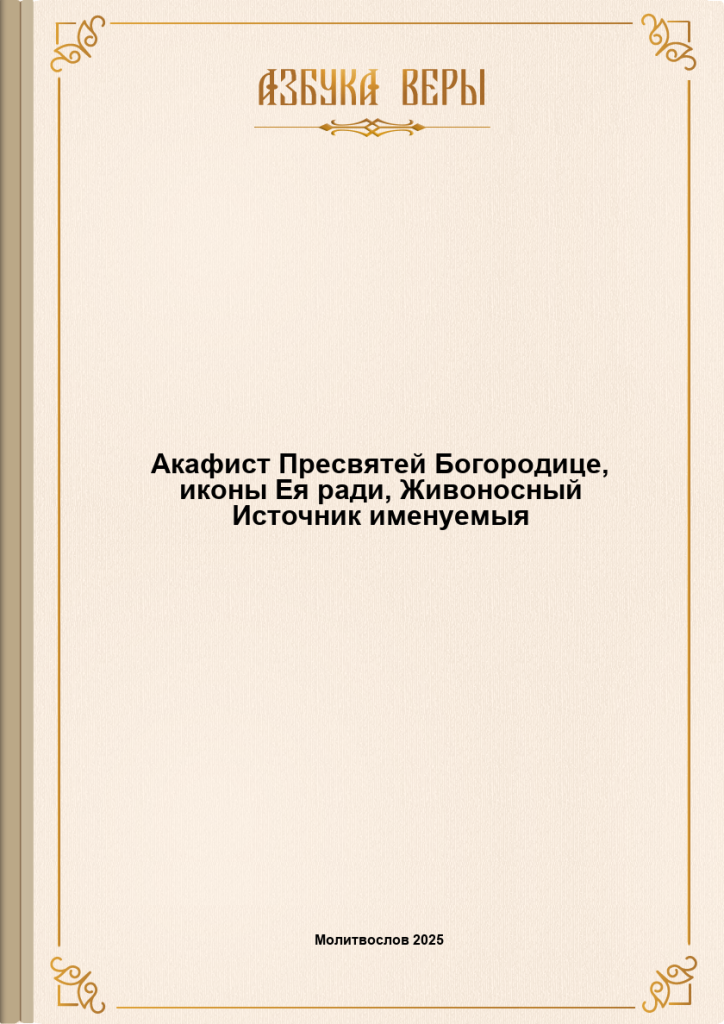
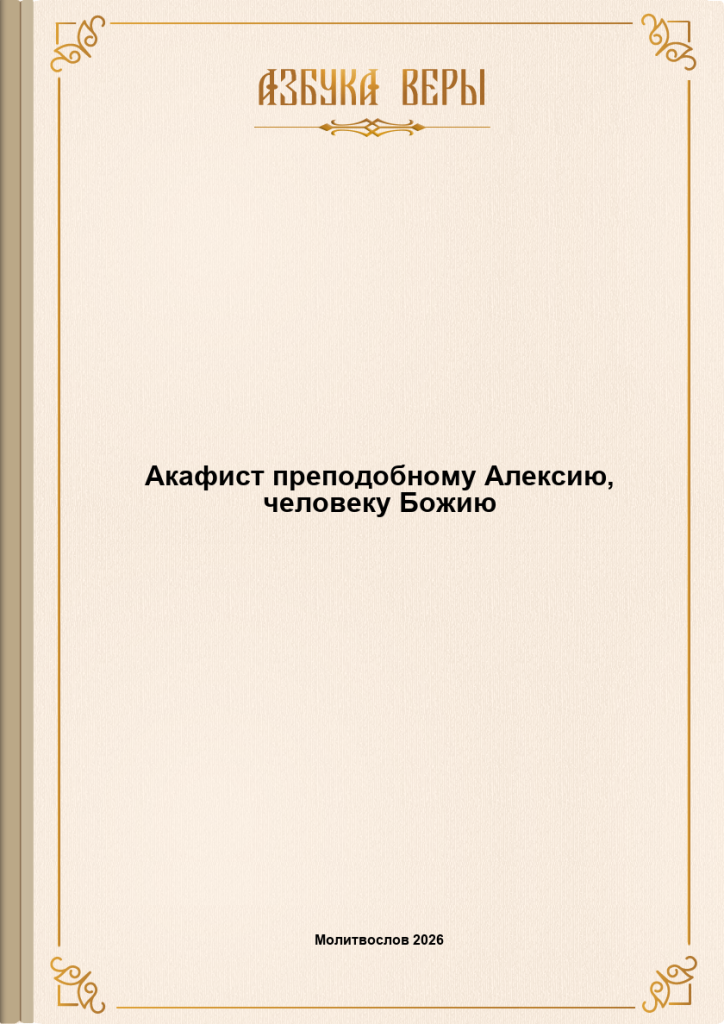
Add files via upload

Changed region(s): [[0.2127, 0.4375, 0.8508, 0.5312]]

diff --git a/Свт Прп Алексей.html b/Свт Прп Алексей.html
@@ -1,0 +1,160 @@
+<?xml version="1.0" encoding="utf-8"?>
+<!DOCTYPE html PUBLIC "-//W3C//DTD XHTML 1.1//EN" "http://www.w3.org/TR/xhtml11/DTD/xhtml11.dtd">
+<html xmlns="http://www.w3.org/1999/xhtml">
+  <head>
+    <meta http-equiv="Content-Type" content="text/html; charset=utf-8"/>
+    <link rel="stylesheet" type="text/css" href="styles.css"/>
+    <title>Акафист преподобному Алексию, человеку Божию</title>
+  </head>
+  <body>
+    <h1>Акафист преподобному Алексию, человеку Божию</h1>
+    <p class="icon_fixed">
+      <img src="images/https/azbyka.ru/molitvoslov/wp-content/uploads/2022/02/molitvoslovwp-contentuploads202202p1bca20m89hdv18atnrq1q8s19up3.jpg" alt="Преподобный Алексий, человек Божий"/>
+    </p>
+    <div style="float: left; display: -block; padding-right: 5px;">
+      <em>Аудио:</em>
+    </div>
+    <div/>
+    <div style="clear: both;"/>
+    <h4 style="margin-top: -5px;">Кондак 1</h4>
+    <p class="gprayer" style="font-family: triodion">Избранный угодниче Христов, свыше нареченный человече Божий, святе Алексие, похвальное пение приносим ти, любовию чтущии твоя подвиги, терпение и многострадание, имиже Богу угодил еси и явился еси равноангелен на земли; ты же, яко имеяй дерзновение ко Господу, молитвами твоими от всяких нас бед свобождай, да зовем ти:</p>
+    <p class="gprayer" style="font-family: triodion">Радуйся, человече Божий Алексие, молитвенниче о душах наших.</p>
+    <h4>Икос 1</h4>
+    <p class="gprayer" style="font-family: triodion">Ангел земный и человек небесный был еси, Алексие блаженне, от младых бо лет жития твоего чистоту души и тела соблюл еси и Христу любовию усердною последовал еси, Егоже взыскуя, вся красная мира сего оставил еси и достигл еси совершенства духовнаго. Сего ради слышиши от нас сия достодолжныя тебе похвалы:</p>
+    <p class="gprayer" style="font-family: triodion">Радуйся, ветхаго Рима рождение; радуйся, безчадных родителей неплодия разрешение.</p>
+    <p class="gprayer" style="font-family: triodion">Радуйся, молитв усердных плод богодарованный; радуйся, от младенчества на богоугождение свыше предызбранный.</p>
+    <p class="gprayer" style="font-family: triodion">Радуйся, в страсе Божием добре воспитанный; радуйся, Закону Господню верно наученный.</p>
+    <p class="gprayer" style="font-family: triodion">Радуйся, о небесных паче, неже о земных, помышлявый; радуйся, самоотвержение чудное показавый.</p>
+    <p class="gprayer" style="font-family: triodion">Радуйся, чистоту девственную Христа ради непорочно сохранивый; радуйся, обручницу, красотою цветущую, Иисуса ради оставивый.</p>
+    <p class="gprayer" style="font-family: triodion">Радуйся, мудрый странниче, отечества горняго взыскавый; радуйся, Божий избранниче, вся прилоги мира, плоти и диавола победивый.</p>
+    <p class="gprayer" style="font-family: triodion">Радуйся, человече Божий Алексие, молитвенниче о душах наших.</p>
+    <h4>Кондак 2</h4>
+    <p class="gprayer" style="font-family: triodion">Видев непостоянство красот мира сего, тлению причастных, Алексие богомудре, возлюбил еси блага нетленная вечная, Христом обетованная во Евангелии верным рабом Его; сего ради дом родителей твоих и все богатство их оставил еси, нищету же вольную избрал еси, да Христу угоден будеши и возможеши невозбранно пети Ему: Аллилуиа.</p>
+    <h4>Икос 2</h4>
+    <p class="gprayer" style="font-family: triodion">Разумел еси добре, Алексие блаженне, яко живя в мире, в супружестве и богатстве, неудобь обрящеши спасение; темже торжеству брачному приспевшу, ты брака внезапно уклонился еси, предпочитая в девственней чистоте Богу благоугождати. О сем дивимся и тебе зовем хвалебно:</p>
+    <p class="gprayer" style="font-family: triodion">Радуйся, Христов любителю, мрежею любве к миру сему неуловленный; радуйся, Иисусов последователю, плоти угождения избежавый.</p>
+    <p class="gprayer" style="font-family: triodion">Радуйся, высотою подвига твоего ангелы удививый; радуйся, крепостию произволения твоего демоны посрамивый.</p>
+    <p class="gprayer" style="font-family: triodion">Радуйся, град отечествия твоего оставивый, да Вышняго Града наследие обрящеши; радуйся, в путь далекий и многоскорбный потекий, да пути спасительнаго причастник будеши.</p>
+    <p class="gprayer" style="font-family: triodion">Радуйся, нищету самоизвольную себе усвоивый; радуйся, гладом и жаждею многажды томимый.</p>
+    <p class="gprayer" style="font-family: triodion">Радуйся, в молитвах деннонощных пребывавый; радуйся, слезами умиления лице твое орошавый.</p>
+    <p class="gprayer" style="font-family: triodion">Радуйся, терпения столпе непоколебимый; радуйся, веры адаманте крепкий.</p>
+    <p class="gprayer" style="font-family: triodion">Радуйся, человече Божий Алексие, молитвенниче о душах наших.</p>
+    <h4>Кондак 3</h4>
+    <p class="gprayer" style="font-family: triodion">Силою Божиею укрепленный, путь далекий совершил еси и града Едеса достигл еси, Алексие достохвальне, в немже, яко един от нищих, пребывал еси в злострадании и нищете, ко храму Божию выну приметаяся и молитвы усердныя со многими слезами принося Христу, Царю и Богу, зовый: Аллилуиа.</p>
+    <h4>Икос 3</h4>
+    <p class="gprayer" style="font-family: triodion">Имел еси, святче Божий, небо покровом и землю одром упокоения, рубища же убогая одеянием многоподвижному твоему телу, зноем опаляему и мразом померзаему, емуже ни малаго угождения не попускал еси, да не возобладает плоть над духом твоим, любовию ко Господу пламеневшим. В таковем подвизе твоем едино утешение Христа имел еси, Иже и нам внушает вопити тебе:</p>
+    <p class="gprayer" style="font-family: triodion">Радуйся, от запада на восток пришедый взыскати Солнца Правды, Свет Невечерний; радуйся, Того во глубине твоего боголюбиваго сердца обретый.</p>
+    <p class="gprayer" style="font-family: triodion">Радуйся, светильниче Божественнаго сияния, мира концы озаривый; радуйся, твоими христопоследовательными стопами Едес освятивый.</p>
+    <p class="gprayer" style="font-family: triodion">Радуйся, правило веры истинныя; радуйся, образе нищеты духовныя.</p>
+    <p class="gprayer" style="font-family: triodion">Радуйся, в души твоей добродетели высокия возрастивый; радуйся, целомудрия сокровище драгое сохранивый.</p>
+    <p class="gprayer" style="font-family: triodion">Радуйся, Евангелия Христова добрый хранителю; радуйся, заповедей Иисусовых усердный исполнителю.</p>
+    <p class="gprayer" style="font-family: triodion">Радуйся, на земли небесно поживый; радуйся, Богу совершенно угодивый.</p>
+    <p class="gprayer" style="font-family: triodion">Радуйся, человече Божий Алексие, молитвенниче о душах наших.</p>
+    <h4>Кондак 4</h4>
+    <p class="gprayer" style="font-family: triodion">Бурю страстей юношеских воздержанием укротил еси, святе Алексие, и постом сугубым увядил еси красоту лица твоего; темже возсия в души твоей нетленная красота благодатнаго безстрастия, благоугодная краснейшему паче сынов человеческих Христу, Емуже во умерщвленнем телеси сладце воспевал еси песнь хвалы и благодарения: Аллилуиа.</p>
+    <h4>Икос 4</h4>
+    <p class="gprayer" style="font-family: triodion">Слышав клирик церкве Едесския в видении глас от иконы Богоматере, человеком Божиим тя нарицающ, достойным Царствия Небеснаго, егоже молитва, яко кадило благовонное, восходит пред Лице Божие, и повелевающ ввести тя внутрь церкве от притвора, идеже нищетно пребывал еси, удивися зело таковей святости твоей, Алексие богоблаженне, и введ тя в <a href="https://azbyka.ru/1/tserkov">церковь</a> Господню, ублажаше тя звании сими:</p>
+    <p class="gprayer" style="font-family: triodion">Радуйся, Духа Святаго жилище, преукрашенное чистотою; радуйся, Божия благодати приятелище, сияющее добродетелей красотою.</p>
+    <p class="gprayer" style="font-family: triodion">Радуйся, Божия Матере словесы похваленный; радуйся, Царицею небесе и земли человеком Божиим наименованный.</p>
+    <p class="gprayer" style="font-family: triodion">Радуйся, имя новое и таинственное от Владычицы мира получивый; радуйся, смирением высокая стяжавый.</p>
+    <p class="gprayer" style="font-family: triodion">Радуйся, нищетою богатство нетленное снискавый; радуйся, почесть вышняго звания достойно восприявый.</p>
+    <p class="gprayer" style="font-family: triodion">Радуйся, молитв благоприятное кадило; радуйся, Царствия Горняго ревностный искателю.</p>
+    <p class="gprayer" style="font-family: triodion">Радуйся, в притворе церковнем дни и нощи молитвенно провождавый; радуйся, внутрь храма Божия повелением Богоматере честно введенный.</p>
+    <p class="gprayer" style="font-family: triodion">Радуйся, человече Божий Алексие, молитвенниче о душах наших.</p>
+    <h4>Кондак 5</h4>
+    <p class="gprayer" style="font-family: triodion">Боготечней звезде уподобился еси, Алексие святе, егда избегая славы человеческия, от Едеса удалился еси во иныя страны, обаче Божиим Промыслом корабль, на немже плыл еси, ко отечественному твоему граду Риму принесеся. Ты же, познав в сем волю Господню тамо тебе подвизатися, притекл еси к дому родителей твоих, и, яко един от нищих, у врат его водворился еси, слезами омывая лице твое и вопия ко Господу: Аллилуиа.</p>
+    <h4>Икос 5</h4>
+    <p class="gprayer" style="font-family: triodion">Видев тя боголюбивый родитель твой, святе Алексие, странна и нища образом, милосердова о тебе и хижину малу повеле соорудити тебе у врат своего дома, в нейже питаше тя Христа ради, отнюд не познавая в тебе своего сына; ты же, нищетно в доме родительстем пребывая, всякую нужду странническую и поношение нищенское претерпел еси, подвизая ны благохвалити тя сице:</p>
+    <p class="gprayer" style="font-family: triodion">Радуйся, мужество великое показавый; радуйся, в терпении мнозем преуспевый.</p>
+    <p class="gprayer" style="font-family: triodion">Радуйся, в доме родителей твоих незнаемь пребывавый; радуйся, скорбь их о лишении твоем всегда созерцавый.</p>
+    <p class="gprayer" style="font-family: triodion">Радуйся, сетования отца твоего слышавый; радуйся, слезы матере твоея видевый.</p>
+    <p class="gprayer" style="font-family: triodion">Радуйся, плач обручницы твоея познавый; радуйся, сердце твое сими болезненно уязвлявый.</p>
+    <p class="gprayer" style="font-family: triodion">Радуйся, поношения и укоризны от слуг родителей твоих незлобно восприявый; радуйся, биения и заушения от них молчаливо переносивый.</p>
+    <p class="gprayer" style="font-family: triodion">Радуйся, за обидевшия тя непрестанно Бога умолявый; радуйся, самоизволен мученик воистину бывый.</p>
+    <p class="gprayer" style="font-family: triodion">Радуйся, человече Божий Алексие, молитвенниче о душах наших.</p>
+    <h4>Кондак 6</h4>
+    <p class="gprayer" style="font-family: triodion">Проповедник евангельския кротости был еси, святе Алексие, образом жития твоего многотерпеливаго всем показуяй, яко вся возможна человеку о укрепляющем Бозе, Егоже силою в немощней плоти великия подвиги совершил еси и многая страдания претерпел еси любве ради Христовы, достойно и праведно воспевая Пресвятей Троице серафимскую песнь: Аллилуиа.</p>
+    <h4>Икос 6</h4>
+    <p class="gprayer" style="font-family: triodion">Возсиял еси в древнем Риме необычайными подвиги твоими, Алексие блаженне, и сими озарил еси благодатно всю <a href="https://azbyka.ru/1/tserkov">Церковь</a> Христову: кто бо не умилится, слыша твое пачеестественное терпение и многая злострадания, в доме родителей твоих восприятая самоизвольно, и како, наследник сый того дома, от слуг его укоризны и раны преносил еси радостно. Сего ради приносим ти от усердия нашего сия песноглашения:</p>
+    <p class="gprayer" style="font-family: triodion">Радуйся, великий угодниче Христов, в мире премирно поживый; радуйся, равноангельный слуго Господень, многоболезненно жизнь твою препроводивый.</p>
+    <p class="gprayer" style="font-family: triodion">Радуйся, безчестие в славу себе вменивый; радуйся, раны на теле твоем терпеливо носивый.</p>
+    <p class="gprayer" style="font-family: triodion">Радуйся, ланиты твоя от заушений не уклонивый; радуйся, плещи твоя на ударения предавый.</p>
+    <p class="gprayer" style="font-family: triodion">Радуйся, оплевания христоподражательно принимавый; радуйся, молчанием на укоризны отвещавый.</p>
+    <p class="gprayer" style="font-family: triodion">Радуйся, во Христе утешение едино обретавый; радуйся, воспоминанием крестных страданий Иисусовых скорби твоя услаждавый.</p>
+    <p class="gprayer" style="font-family: triodion">Радуйся, великодушный многострадальче; радуйся, добропобедный подвижниче.</p>
+    <p class="gprayer" style="font-family: triodion">Радуйся, человече Божий Алексие, молитвенниче о душах наших.</p>
+    <h4>Кондак 7</h4>
+    <p class="gprayer" style="font-family: triodion">Хотение едино имел еси, человече Божий, еже благоугождати Богу; темже вся временная в уметы вменил еси и, наследник многаго богатства быв, сие оставил еси, нищ и странен пребывая, в родительстем доме непознаваем и зело уничижаем, присно воздыхая ко Господу и слезно моляся, да сподобит тя в стране блаженства вечнаго пети Ему со святыми: Аллилуиа.</p>
+    <h4>Икос 7</h4>
+    <p class="gprayer" style="font-family: triodion">Ново и необычайно течение совершил еси жития твоего, святе Алексие, среди мира чуждо мирских пристрастий и всякия скверны греховныя; темже приял еси в души твоей боговедения дар совершен и был еси одушевленный храм Трисияннаго Божества, в немже Христос со Отцем и Духом обитель Себе сотвори, нас же научи звати тебе:</p>
+    <p class="gprayer" style="font-family: triodion">Радуйся, ангелов подобниче и человеков красото; радуйся, ризу душевную девства чистотою убеливый.</p>
+    <p class="gprayer" style="font-family: triodion">Радуйся, в радость Господа твоего вшедый; радуйся, добровольною нищетою превозвышенный.</p>
+    <p class="gprayer" style="font-family: triodion">Радуйся, терпением твоим с многострадальным Иовом сравнивыйся; радуйся, уничижением твоим евангельскому Лазарю подражавый.</p>
+    <p class="gprayer" style="font-family: triodion">Радуйся, болезньми многими здравие души стяжавый; радуйся, страданьми неисчетными Царствие Христово приобретый.</p>
+    <p class="gprayer" style="font-family: triodion">Радуйся, ветхаго Рима благодатное обновление; радуйся, Церкве Христовы Божественное удобрение.</p>
+    <p class="gprayer" style="font-family: triodion">Радуйся, обетований Иисусовых наследниче; радуйся, Пресвятыя Троицы таинниче.</p>
+    <p class="gprayer" style="font-family: triodion">Радуйся, человече Божий Алексие, молитвенниче о душах наших.</p>
+    <h4>Кондак 8</h4>
+    <p class="gprayer" style="font-family: triodion">Странник и пришлец был еси во граде отечествия твоего, святе, выну взыскуя Вышняго Града, Иерусалима Небеснаго; егдаже приспе время отшествия твоего к Богу, ты на хартии тайну жития твоего начертал еси, в познание твоим родителем, и неослабно пребывал еси в подвизех поста и молитвы, приуготовляяся ко исходу умиленным пением Богу: Аллилуиа.</p>
+    <h4>Икос 8</h4>
+    <p class="gprayer" style="font-family: triodion">Весь в Бозе быв, Алексие святе, молитве бывшей на устах твоих, предал еси праведную душу твою в руце Божии мирно и безмятежно, яко уснул еси; смерть бо тебе воистину упокоение бысть от страданий и подвигов непрестанных и прехождение от худшаго на лучшее. О таковем блаженнем успении твоем мы, радующеся, сия прикладныя тебе приносим глаголы:</p>
+    <p class="gprayer" style="font-family: triodion">Радуйся, святче Божий, свято и праведно жизнь земную совершивый; радуйся, во благоухании святыни сном смертным опочивый.</p>
+    <p class="gprayer" style="font-family: triodion">Радуйся, на лоно Авраама ангелы несенный; радуйся, пением неземным от святых Небожителей встреченный.</p>
+    <p class="gprayer" style="font-family: triodion">Радуйся, венцем безсмертныя жизни от Господа увенчанный; радуйся, во обители райския со славою восприятый.</p>
+    <p class="gprayer" style="font-family: triodion">Радуйся, Пресветлое Лице Владыки Христа выну созерцаяй; радуйся, Пресвятей Троице Трисвятую песнь немолчно возглашаяй.</p>
+    <p class="gprayer" style="font-family: triodion">Радуйся, Создателя горних и дольних молитвами твоими умилостивляяй; радуйся, весь мир христианский предстательством твоим объемляй.</p>
+    <p class="gprayer" style="font-family: triodion">Радуйся, ангелов и человеков радование; радуйся, почитающим святую память твою верный ходатаю.</p>
+    <p class="gprayer" style="font-family: triodion">Радуйся, человече Божий Алексие, молитвенниче о душах наших.</p>
+    <h4>Кондак 9</h4>
+    <p class="gprayer" style="font-family: triodion">Вси людие римстии в трепет приидоша, слышавше глас в соборней церкви града своего, во время Божественныя Литургии свыше от олтаря глаголющ и повелевающ поискати тя, человече Божий, да молитв твоих сподобятся. Темже во удивлении и ужасе бывше, молитвенно возопиша они ко Господу, да явит им тебе, Своего избранника, зовуще дивному во святых Своих Владыце: Аллилуиа.</p>
+    <h4>Икос 9</h4>
+    <p class="gprayer" style="font-family: triodion">Витийство человеческое не довлеет к похвалению тебе, святе Алексие, свыше похваленному Гласом Божественным, Егоже извещением людие римстии обретоша тя, мертва лежаща на одре, с хартиею на лице, еже сияше солнцеподобными лучами, и благоухание велие исхождаше от многоподвижнаго твоего телесе. Темже обретением твоим обрадовани, царь, святитель и весь народ возгласиша тебе:</p>
+    <p class="gprayer" style="font-family: triodion">Радуйся, светлая луче Трисолнечнаго Света, оживляющаго весь мир; радуйся, деннице, возшедшая просвещати Церковь Христову многими чудесы.</p>
+    <p class="gprayer" style="font-family: triodion">Радуйся, святости и чистоты крине благоуханный; радуйся, дарований Божественных сокровище.</p>
+    <p class="gprayer" style="font-family: triodion">Радуйся, родителем твоим хартиею себе явивый; радуйся, плач их горестный на сладостный преложивый.</p>
+    <p class="gprayer" style="font-family: triodion">Радуйся, седины отца твоего прославлением твоим прославивый; радуйся, слезы матере твоея благодатно вознаградивый.</p>
+    <p class="gprayer" style="font-family: triodion">Радуйся, честную обручницу твою, верность тебе сохраньшую, духовно утешивый; радуйся, весь народ римский обретением твоим зело возвеселивый.</p>
+    <p class="gprayer" style="font-family: triodion">Радуйся, исцеления чудесная от святых мощей твоих обильно источивый; радуйся, на небеси и на земли почесть посмертную достойно восприявый.</p>
+    <p class="gprayer" style="font-family: triodion">Радуйся, человече Божий Алексие, молитвенниче о душах наших.</p>
+    <h4>Кондак 10</h4>
+    <p class="gprayer" style="font-family: triodion">Спастися хотящим пример благий житие твое, святе Алексие, имже вся ны поучаеши отрешатися сует мира, искати же едино на потребу, еже есть богоугождение. Помози убо нам, человече Божий, в сем тебе подражати, укрепи немощное произволение наше, вдохни в нас мужество душевное, украси нас добродетельми и яви быти наследники Царствия Небеснаго, да с тобою на земли живых воспоем Создателю нашему: Аллилуиа.</p>
+    <h4>Икос 10</h4>
+    <p class="gprayer" style="font-family: triodion">Царя Небеснаго Христа верный последователь был еси, Алексие блаженне, егоже Страшному Престолу ныне предстоиши во славе небесней, о нейже мы, земнии и перстнии, ниже помыслити можем; обаче любовию усердною к тебе понуждаеми, мысленно созерцаем тя, горе за ны молящагося пред лицем Божиим, и бренными усты возсылаем ти пение таковое:</p>
+    <p class="gprayer" style="font-family: triodion">Радуйся, верно чтущим тя скорый помощниче; радуйся, молитвенно призывающих тя усердный заступниче.</p>
+    <p class="gprayer" style="font-family: triodion">Радуйся, праведниче Господень, Егоже Правда возсия немерцаемо; радуйся, соль земли, яже никогдаже обуяет.</p>
+    <p class="gprayer" style="font-family: triodion">Радуйся, добрыми делы твоими Бога прославивый и человеки удививый; радуйся, житием твоим ангелы возвеселивый и духи тьмы посрамивый.</p>
+    <p class="gprayer" style="font-family: triodion">Радуйся, Горняго Мира украшение; радуйся, дольняго мира защищение.</p>
+    <p class="gprayer" style="font-family: triodion">Радуйся, Рима славо и похвало; радуйся, христианскаго рода возвышение.</p>
+    <p class="gprayer" style="font-family: triodion">Радуйся, в чудесех просиявый; радуйся, в милостех неистощимый.</p>
+    <p class="gprayer" style="font-family: triodion">Радуйся, человече Божий Алексие, молитвенниче о душах наших.</p>
+    <h4>Кондак 11</h4>
+    <p class="gprayer" style="font-family: triodion">Пение надгробное со славою тебе сотвориша, святе Алексие, царь, святитель и весь народ римский, родителем твоим и обручнице твоей, возследующим честному твоему гробу, несенному благолепно в соборную церковь, от негоже чудес множество источил еси: слепии прозираху, разслабленнии укрепляхуся, недужнии здрави бываху прикосновением к мощем твоим святым, воеже всем видящим таковая возглашати Богу: Аллилуиа.</p>
+    <h4>Икос 11</h4>
+    <p class="gprayer" style="font-family: triodion">Светло и радостно бысть погребение твое, человече Божий, светел бо лицем возлежал еси во гробе и благоухание сладостное испущал еси от нетленнаго твоего телесе, сими знаменуя светлость немерцающую святыя твоея души, в воню благоухания Христова притекшия и мира Божественнаго преисполненныя, от еяже полноты и в наша души подаждь даяние благодатное, да со утешением духовным тебе возопием:</p>
+    <p class="gprayer" style="font-family: triodion">Радуйся, свеще неугасимая, в молитвах к Богу горе возжженная; радуйся, лампадо златая, елеем милости долу живущих умащающая.</p>
+    <p class="gprayer" style="font-family: triodion">Радуйся, алавастре драгий, миро целебное болящим источаяй; радуйся, реко многоводная чудес.</p>
+    <p class="gprayer" style="font-family: triodion">Радуйся, иночествующим наставниче добраго подвига; радуйся, в мире живущим образе богоугождения.</p>
+    <p class="gprayer" style="font-family: triodion">Радуйся, зерцало чистое праведнаго жития; радуйся, пристанище благоотишное по Бозе упование на тя возложивших.</p>
+    <p class="gprayer" style="font-family: triodion">Радуйся, врагов невидимых крепкий противоборче; радуйся, ищущим спасения душевнаго благий споспешниче.</p>
+    <p class="gprayer" style="font-family: triodion">Радуйся, от небесных высот к земнородным милостивно приникаяй; радуйся, чтущих тя прошения скоро исполняяй.</p>
+    <p class="gprayer" style="font-family: triodion">Радуйся, человече Божий Алексие, молитвенниче о душах наших.</p>
+    <h4>Кондак 12</h4>
+    <p class="gprayer" style="font-family: triodion">Благодать и милость испроси нам у Христа, Царя и Бога нашего, Алексие достохвальне; вемы бо, яко много может молитва твоя пред Лицем Его, и благоуветливо преклоняется Он к молению твоему. Темже усердно к тебе прибегаем и смиренно просим: окорми нас предстательством твоим в тихое пристанище Христово и сподоби наслаждатися нетленныя радости святых, немолчно вопиющих славословия песнь Триединому Богу: Аллилуиа.</p>
+    <h4>Икос 12</h4>
+    <p class="gprayer" style="font-family: triodion">Поюще подвиги многострадальнаго и предивнаго жития твоего, человече Божий, хвалим, славим и ублажаем тя усердною любовию, яко небеснаго многомощнаго предстателя нашего; ты же, святе, данною ти свыше благодатию нас, грешных и мрачных, освяти, просвети и настави вопити тебе неосужденно:</p>
+    <p class="gprayer" style="font-family: triodion">Радуйся, Востока незаходимаго присносияющая заре; радуйся, вселенную твоими чудесы исполнивый.</p>
+    <p class="gprayer" style="font-family: triodion">Радуйся, мощами твоими преславно чудотворяй; радуйся, образми подобия твоего предивная совершаяй.</p>
+    <p class="gprayer" style="font-family: triodion">Радуйся, болящих безмездный врачу; радуйся, скорбящих благий утешителю.</p>
+    <p class="gprayer" style="font-family: triodion">Радуйся, унывающих благодатное ободрение; радуйся, изнемогающих внезапное укрепление.</p>
+    <p class="gprayer" style="font-family: triodion">Радуйся, бедствующим на помощь ускоряяй; радуйся, от жития отходящим заступление твое многомощное являяй.</p>
+    <p class="gprayer" style="font-family: triodion">Радуйся, радости духовныя боголюбивым душам подателю; радуйся, благ временных и вечных усердный нам у Господа просителю.</p>
+    <p class="gprayer" style="font-family: triodion">Радуйся, человече Божий Алексие, молитвенниче о душах наших.</p>
+    <h4>Кондак 13</h4>
+    <p class="gprayer" style="font-family: triodion">О, святый и богопрославленный человече Божий Алексие! Тебе, горе за ны молящемуся пред Престолом Господа Славы, мы грешнии, долу живущии, сие малое приносим пение, молимся от всея души и от всего помышления: молитвами твоими испроси нам у Христа Бога прощение согрешений и по кончине нашея жизни приятие в блаженныя обители Небеснаго Царствия, да с тобою во веки поем Ему: Аллилуиа.</p>
+    <p style="text-align: center;">
+      <em>Этот кондак читается трижды, затем икос 1-й «Ангел земный...» и кондак 1-й «Избранный угодниче Христов...».</em>
+    </p>
+    <h4>Молитва</h4>
+    <p class="gprayer" style="font-family: triodion">О, великий Христов угодниче, святый человече Божий Алексие, душею на Небеси Престолу Господню предстояй, на земли же данною ти свыше благодатию различная совершаяй чудеса! Призри милостиво на предстоящия святей иконе твоей люди, умиленно молящияся и просящия от тебе помощи и заступления. Простри молитвенно ко Господу Богу честнии руце твои и испроси нам от Него оставление согрешений наших вольных и невольных, в недузех страждущим исцеление, напаствуемым заступление, скорбящим утешение, бедствующим скорую помощь, всем же, чтущим тя, мирную и христианскую живота кончину и добрый ответ на страшнем Суде Христове. Ей, угодниче Божий, не посрами упования нашего, еже на тя по Бозе и Богородице возлагаем, но буди нам помощник и покровитель во спасение, да, твоими молитвами получивше благодать и милость от Господа, прославим человеколюбие Отца и Сына и Святаго Духа, в Троице славимаго и покланяемаго Бога, и твое святое заступление, ныне, и присно, и во веки веков. Аминь.</p>
+  </body>
+</html>
